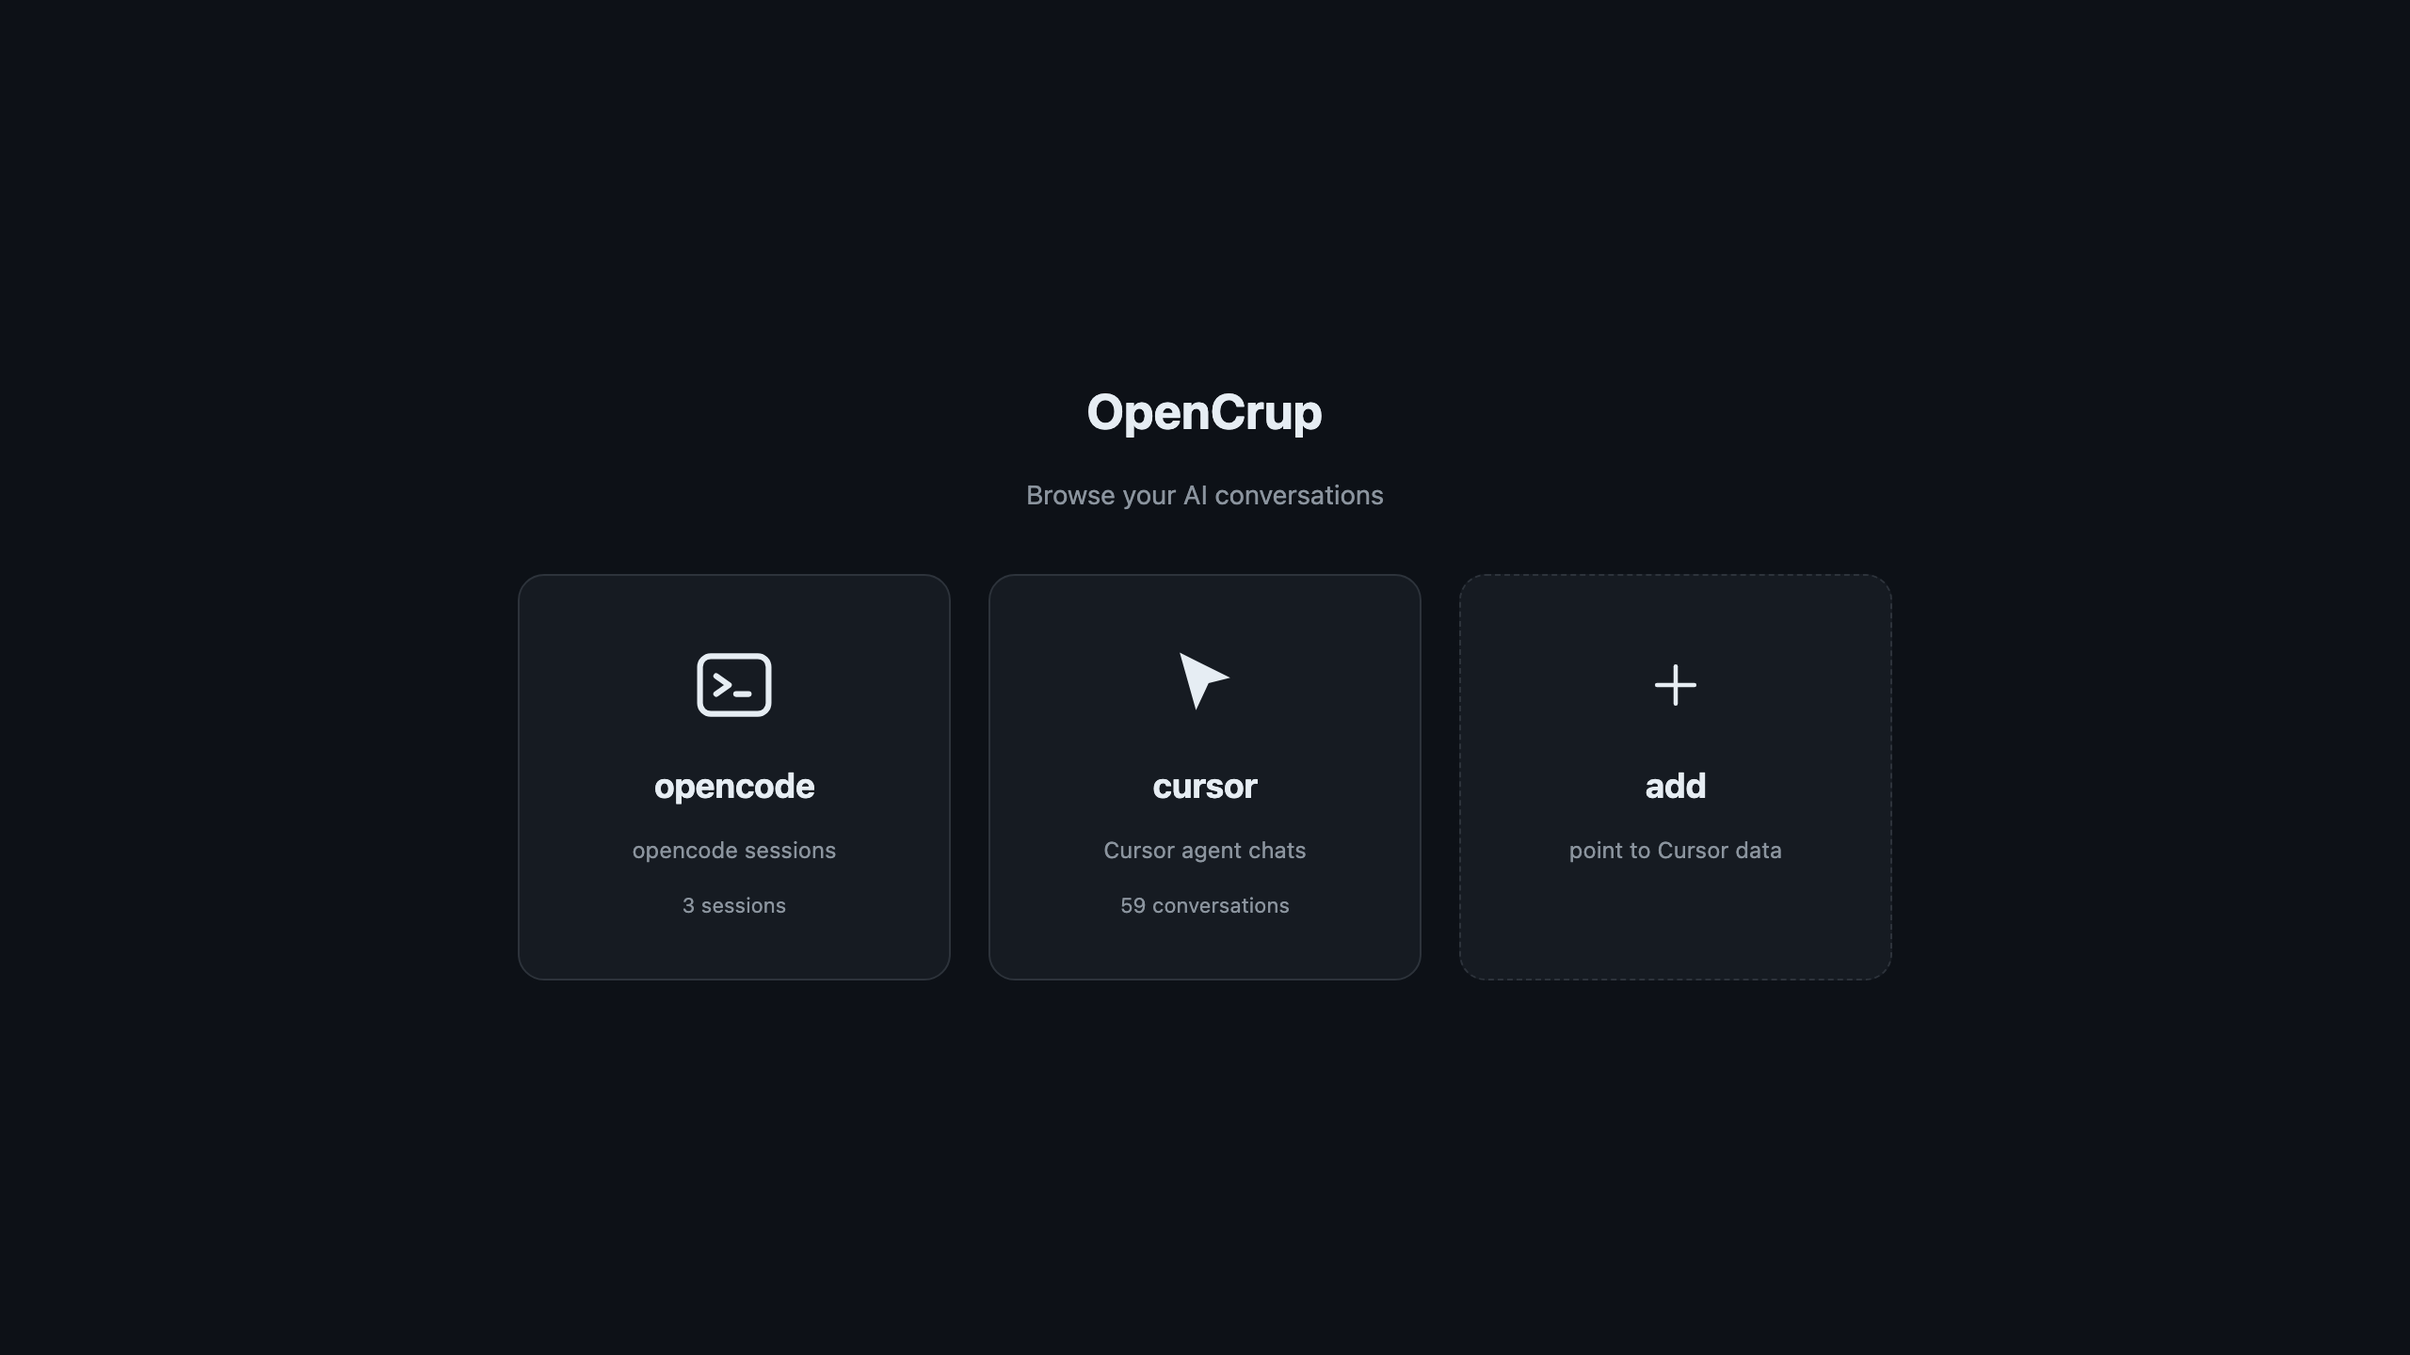
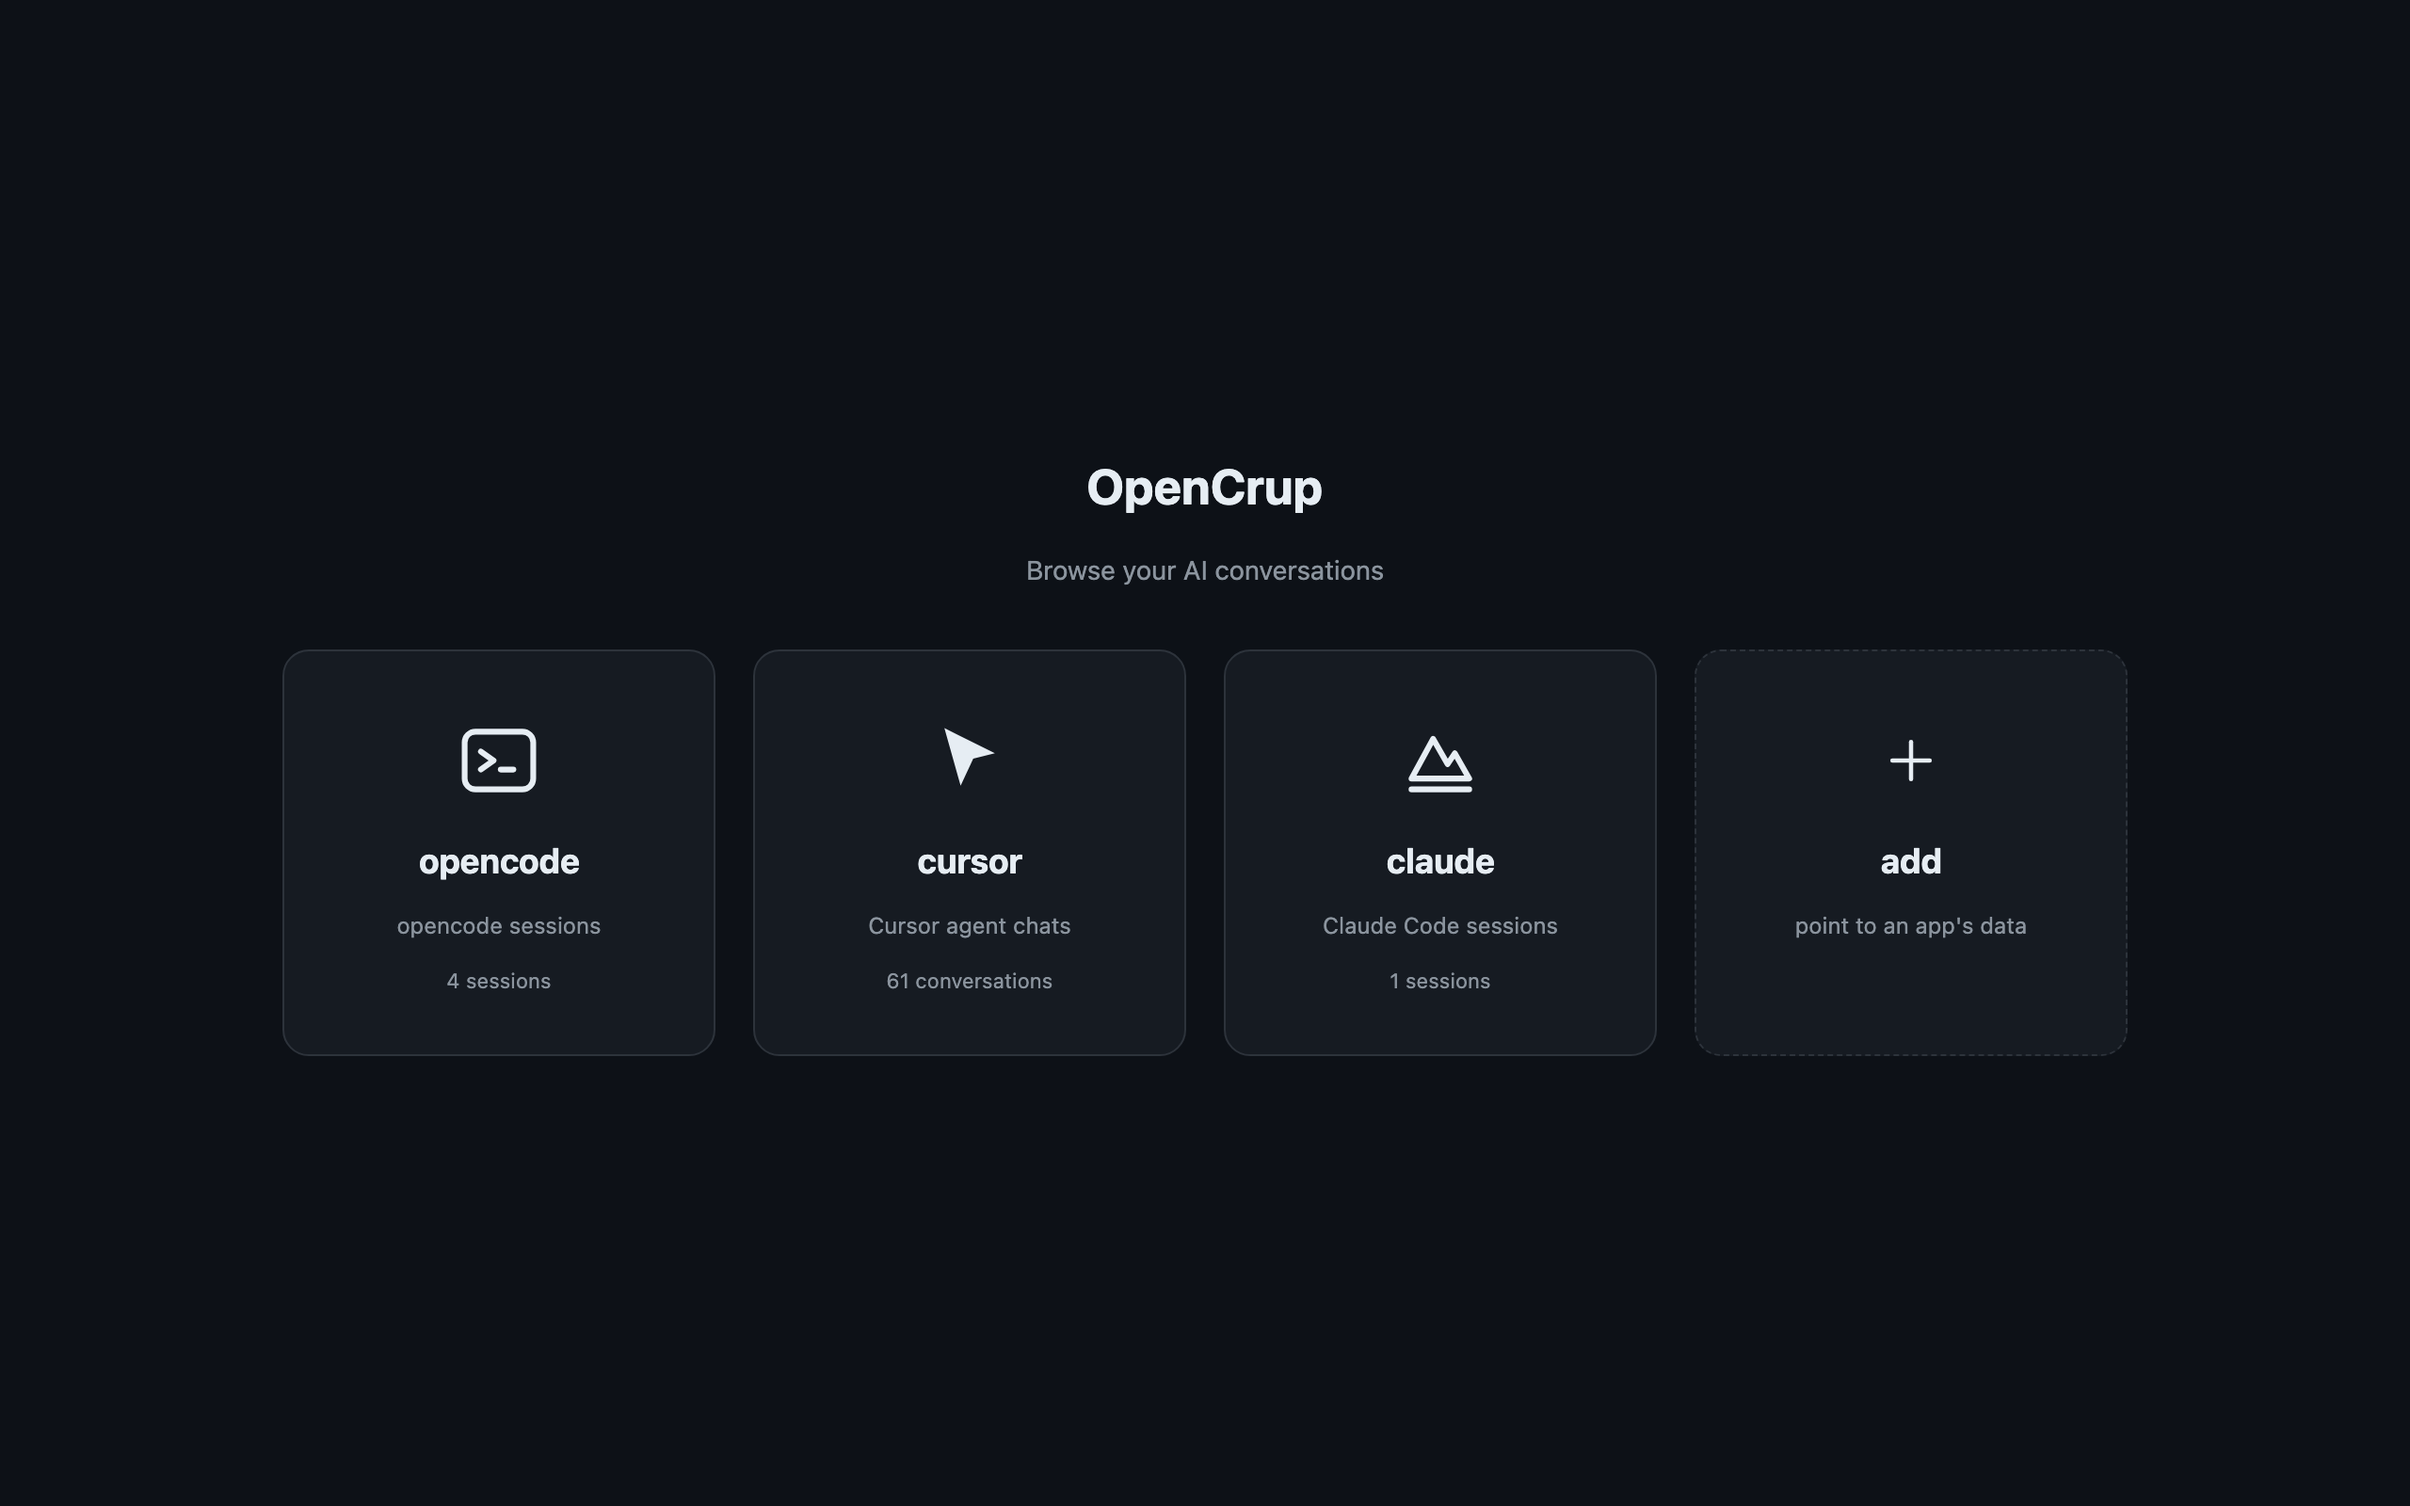
Refresh README screenshots + add conversation view and deep links
- docs: refresh home + opencode-view shots; add conversation_view.png
  (thinking, tool call, and code) rendered from the mock-data build
- README: link the new conversation screenshot; note shareable deep links
- main.js: ?source=<app>&session=<id> deep link opens straight to a view
- scripts/screenshot.py: Playwright capture of the three README views
- scripts/dev_mock.py: ignore real ~/.opencrup config so the mock DB wins

diff --git a/public/js/main.js b/public/js/main.js
@@ -2,7 +2,8 @@ import { state } from "./state.js";
 import { $, api, toast } from "./util.js";
 import { loadSessions, renderFilterMenu, closeFilterMenu, refreshAll } from "./data.js";
 import { renderSessionList, bulkAction, clearSelection } from "./list.js";
-import { showHome, renderHome } from "./nav.js";
+import { showHome, renderHome, showViewer } from "./nav.js";
+import { selectSession } from "./detail.js";
 
 // ---------------------------------------------------------------------------
 // init
@@ -61,4 +62,12 @@ $("main").addEventListener("click", (e) => {
     window.__home = env.home;
   } catch {}
   renderHome();
+  // deep link: ?source=opencode&session=<id> (shareable / screenshot-able views)
+  const params = new URLSearchParams(location.search);
+  const src = params.get("source");
+  if (src && ["opencode", "cursor", "claude"].includes(src)) {
+    await showViewer(src);
+    const sid = params.get("session");
+    if (sid) selectSession(sid);
+  }
 })();

diff --git a/scripts/screenshot.py b/scripts/screenshot.py
@@ -1,0 +1,37 @@
+#!/usr/bin/env python3
+"""Capture README screenshots of the running OpenCrup app (Playwright/Chromium).
+
+Usage: python3 scripts/screenshot.py [session_id]
+Defaults to a bundled demo conversation if no id is given.
+"""
+import sys
+from playwright.sync_api import sync_playwright
+
+BASE = "http://127.0.0.1:4322"  # mock-data dev build (scripts/dev_mock.py)
+DOCS = "docs"
+SESSION = sys.argv[1] if len(sys.argv) > 1 else "ses_webapp_1"
+
+
+def shoot(page, url, selector, out):
+    page.goto(url, wait_until="load", timeout=30000)
+    page.wait_for_selector(selector, state="visible", timeout=20000)
+    page.wait_for_timeout(400)  # let layout/animations settle
+    page.screenshot(path=out)
+    print(f"  {out}  <-  {url}")
+
+
+with sync_playwright() as p:
+    browser = p.chromium.launch(headless=True)
+    page = browser.new_page(viewport={"width": 1280, "height": 800}, device_scale_factor=2)
+
+    print("home:")
+    shoot(page, f"{BASE}/", "#home-cards .source-card", f"{DOCS}/home.png")
+
+    print("opencode list:")
+    shoot(page, f"{BASE}/?source=opencode", "#session-list .session-item", f"{DOCS}/opencode_view.png")
+
+    print("open conversation:")
+    shoot(page, f"{BASE}/?source=opencode&session={SESSION}", "#msg-list .msg", f"{DOCS}/conversation_view.png")
+
+    browser.close()
+print("done")

diff --git a/scripts/dev_mock.py b/scripts/dev_mock.py
@@ -237,6 +237,10 @@ def main():
     print(f"mock opencode DB: {db}")
     sys.path.insert(0, str(BASE))
     import server
+    # Ignore any real ~/.opencrup/config.json so the mock DB (OPENCODE_DB env)
+    # wins over a persisted opencode_db override. Cursor/Claude fall back to
+    # their real defaults, which is what we want on the home screen.
+    server.CONFIG_PATH = tmp / "config.json"
     server.main()
 
 

diff --git a/README.md b/README.md
@@ -14,6 +14,10 @@ Python 3 stdlib only. No install, no build step.
   <img src="docs/opencode_view.png" alt="OpenCrup opencode view: read, edit, move" width="45%" style="border-radius:12px;"/>
 </p>
 
+<p align="center">
+  <img src="docs/conversation_view.png" alt="OpenCrup conversation view: thinking, tool calls, and code" width="85%" style="border-radius:12px;"/>
+</p>
+
 ---
 
 ## 🚚 Moving conversations
@@ -32,6 +36,8 @@ The destination is a dropdown of the target's existing projects, defaulting to t
 ## ✨ Everything else
 
 Search and group conversations by project. Read markdown, thinking blocks, and tool calls (input + output). Edit or delete individual messages, or select a range and delete/archive in bulk. Export a session as JSON.
+
+Every view is a shareable deep link — `?source=opencode&session=<id>` opens straight to a conversation, so you can point a teammate (or a screenshot) right at it.
 
 ---
 
